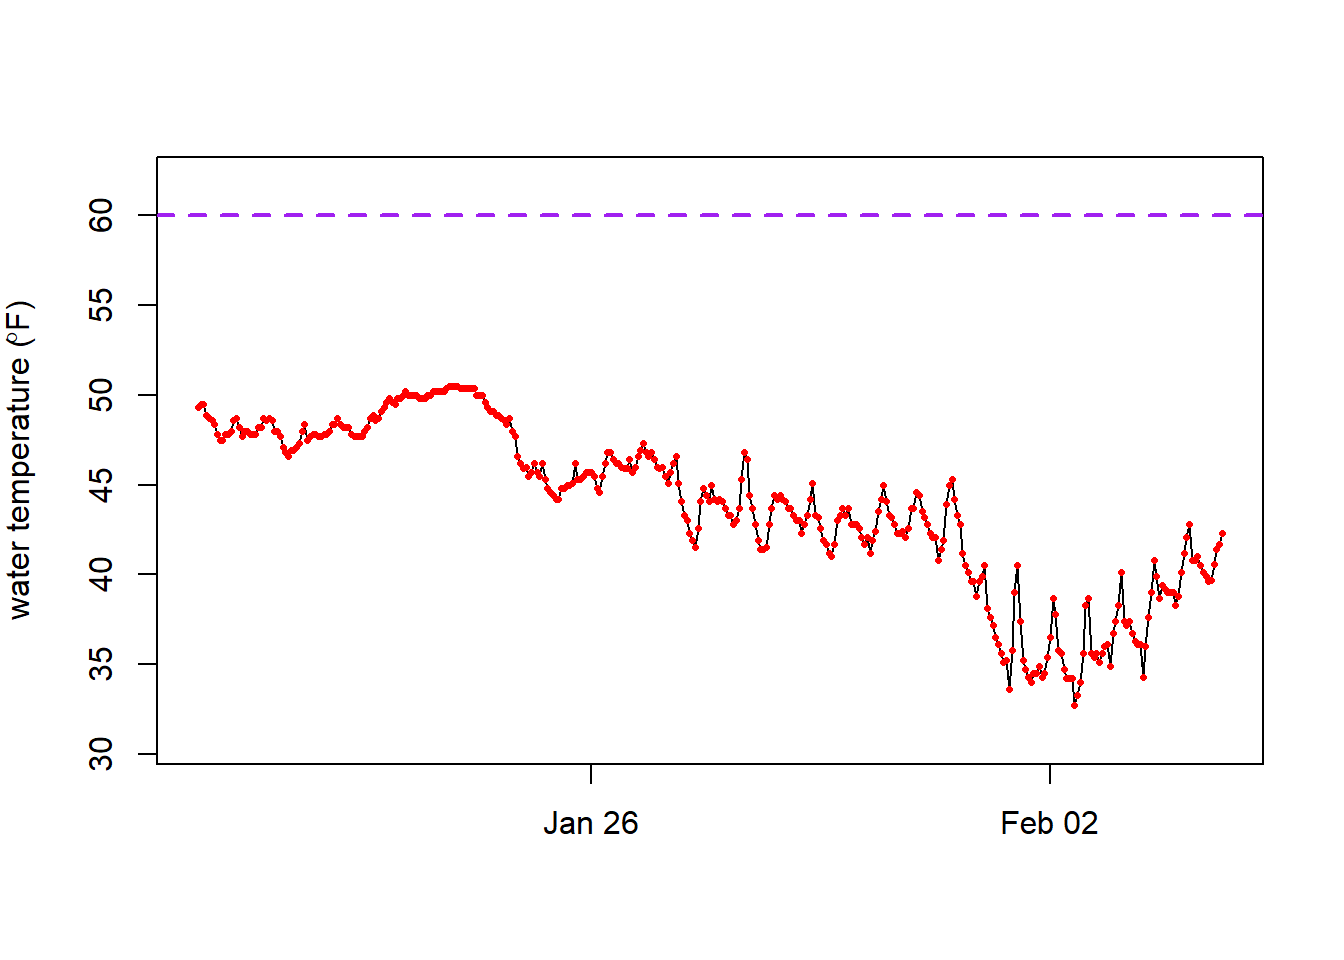
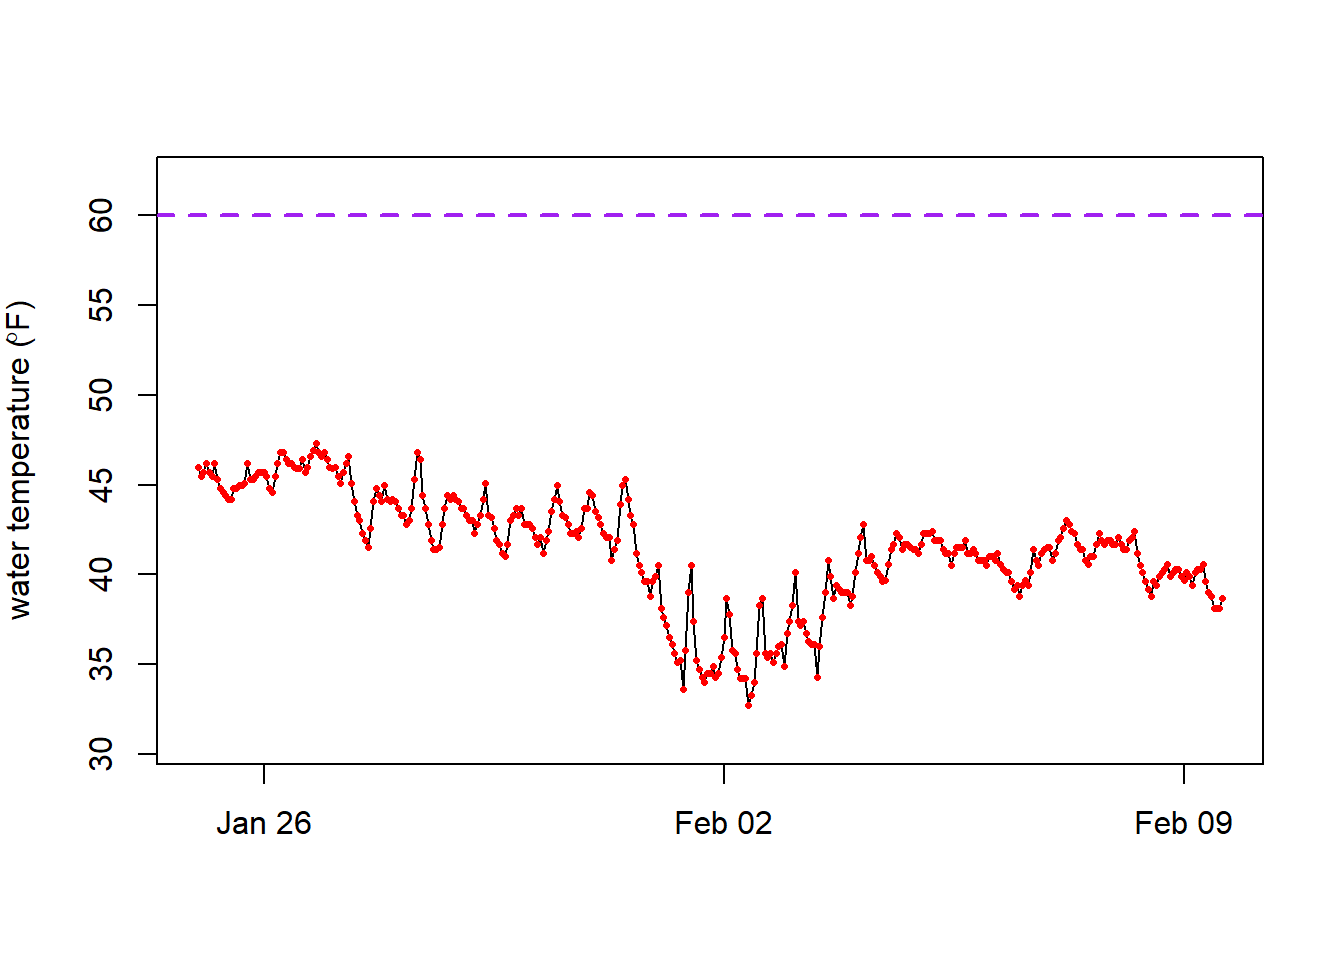
update

diff --git a/index.html b/index.html
@@ -6,7 +6,7 @@
 
 <meta name="viewport" content="width=device-width, initial-scale=1.0, user-scalable=yes">
 
-<meta name="dcterms.date" content="2026-02-04">
+<meta name="dcterms.date" content="2026-02-09">
 
 <title>water temp at 8656483</title>
 <style>
@@ -94,7 +94,7 @@ pre > code.sourceCode > span > a:first-child::before { text-decoration: underlin
     <div>
     <div class="quarto-title-meta-heading">Published</div>
     <div class="quarto-title-meta-contents">
-      <p class="date">February 4, 2026</p>
+      <p class="date">February 9, 2026</p>
     </div>
   </div>
   
